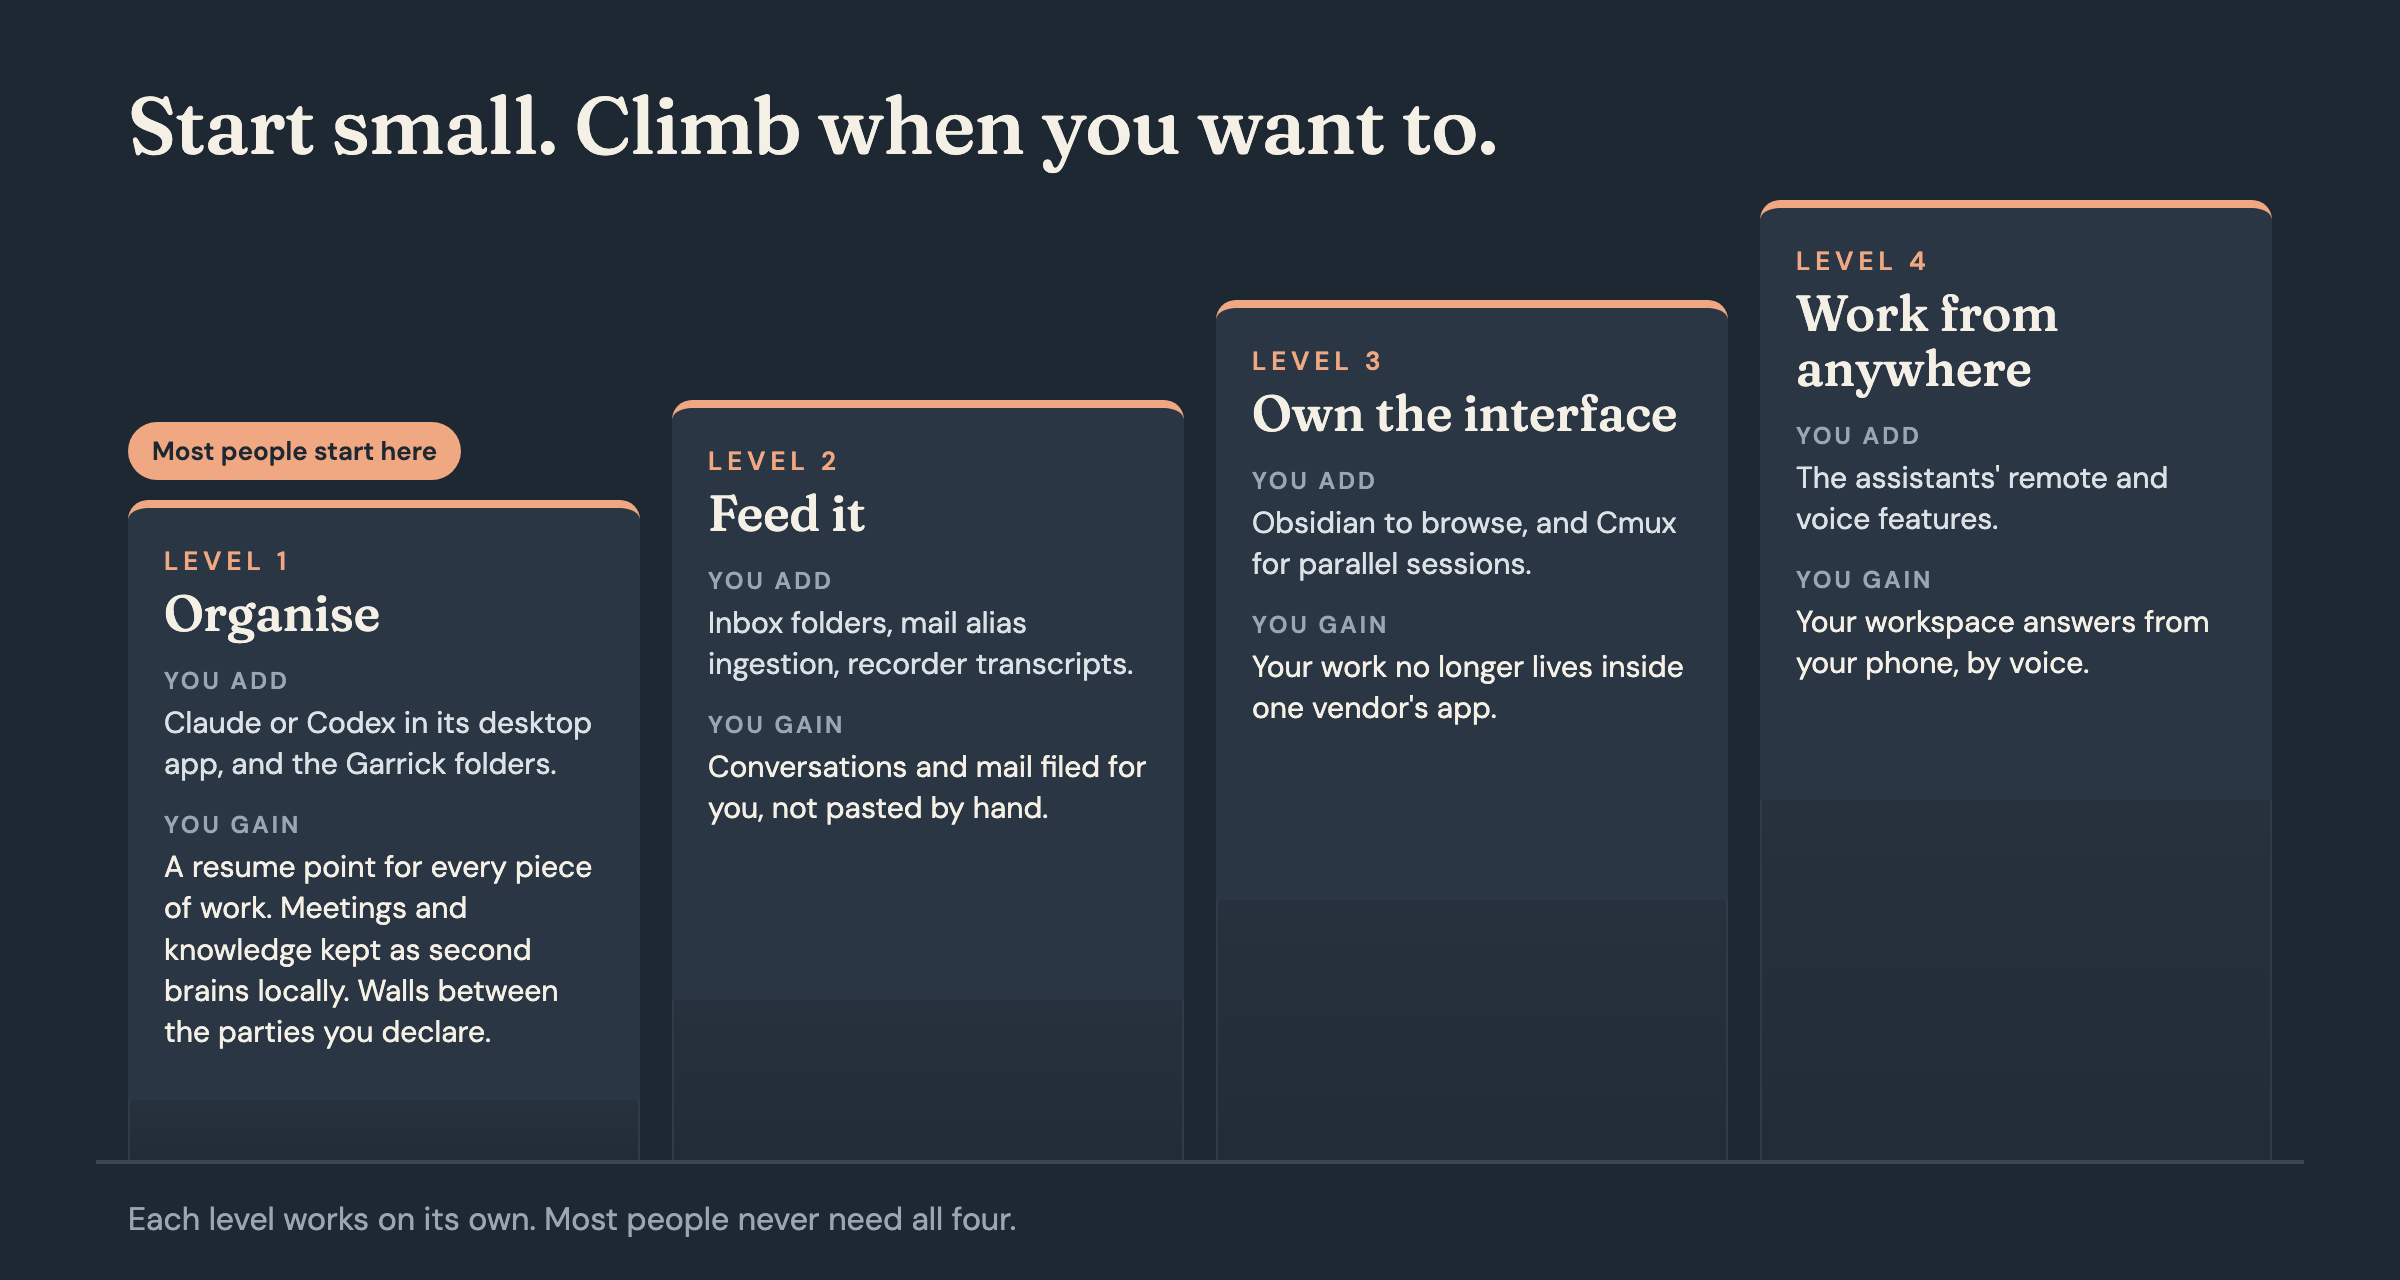
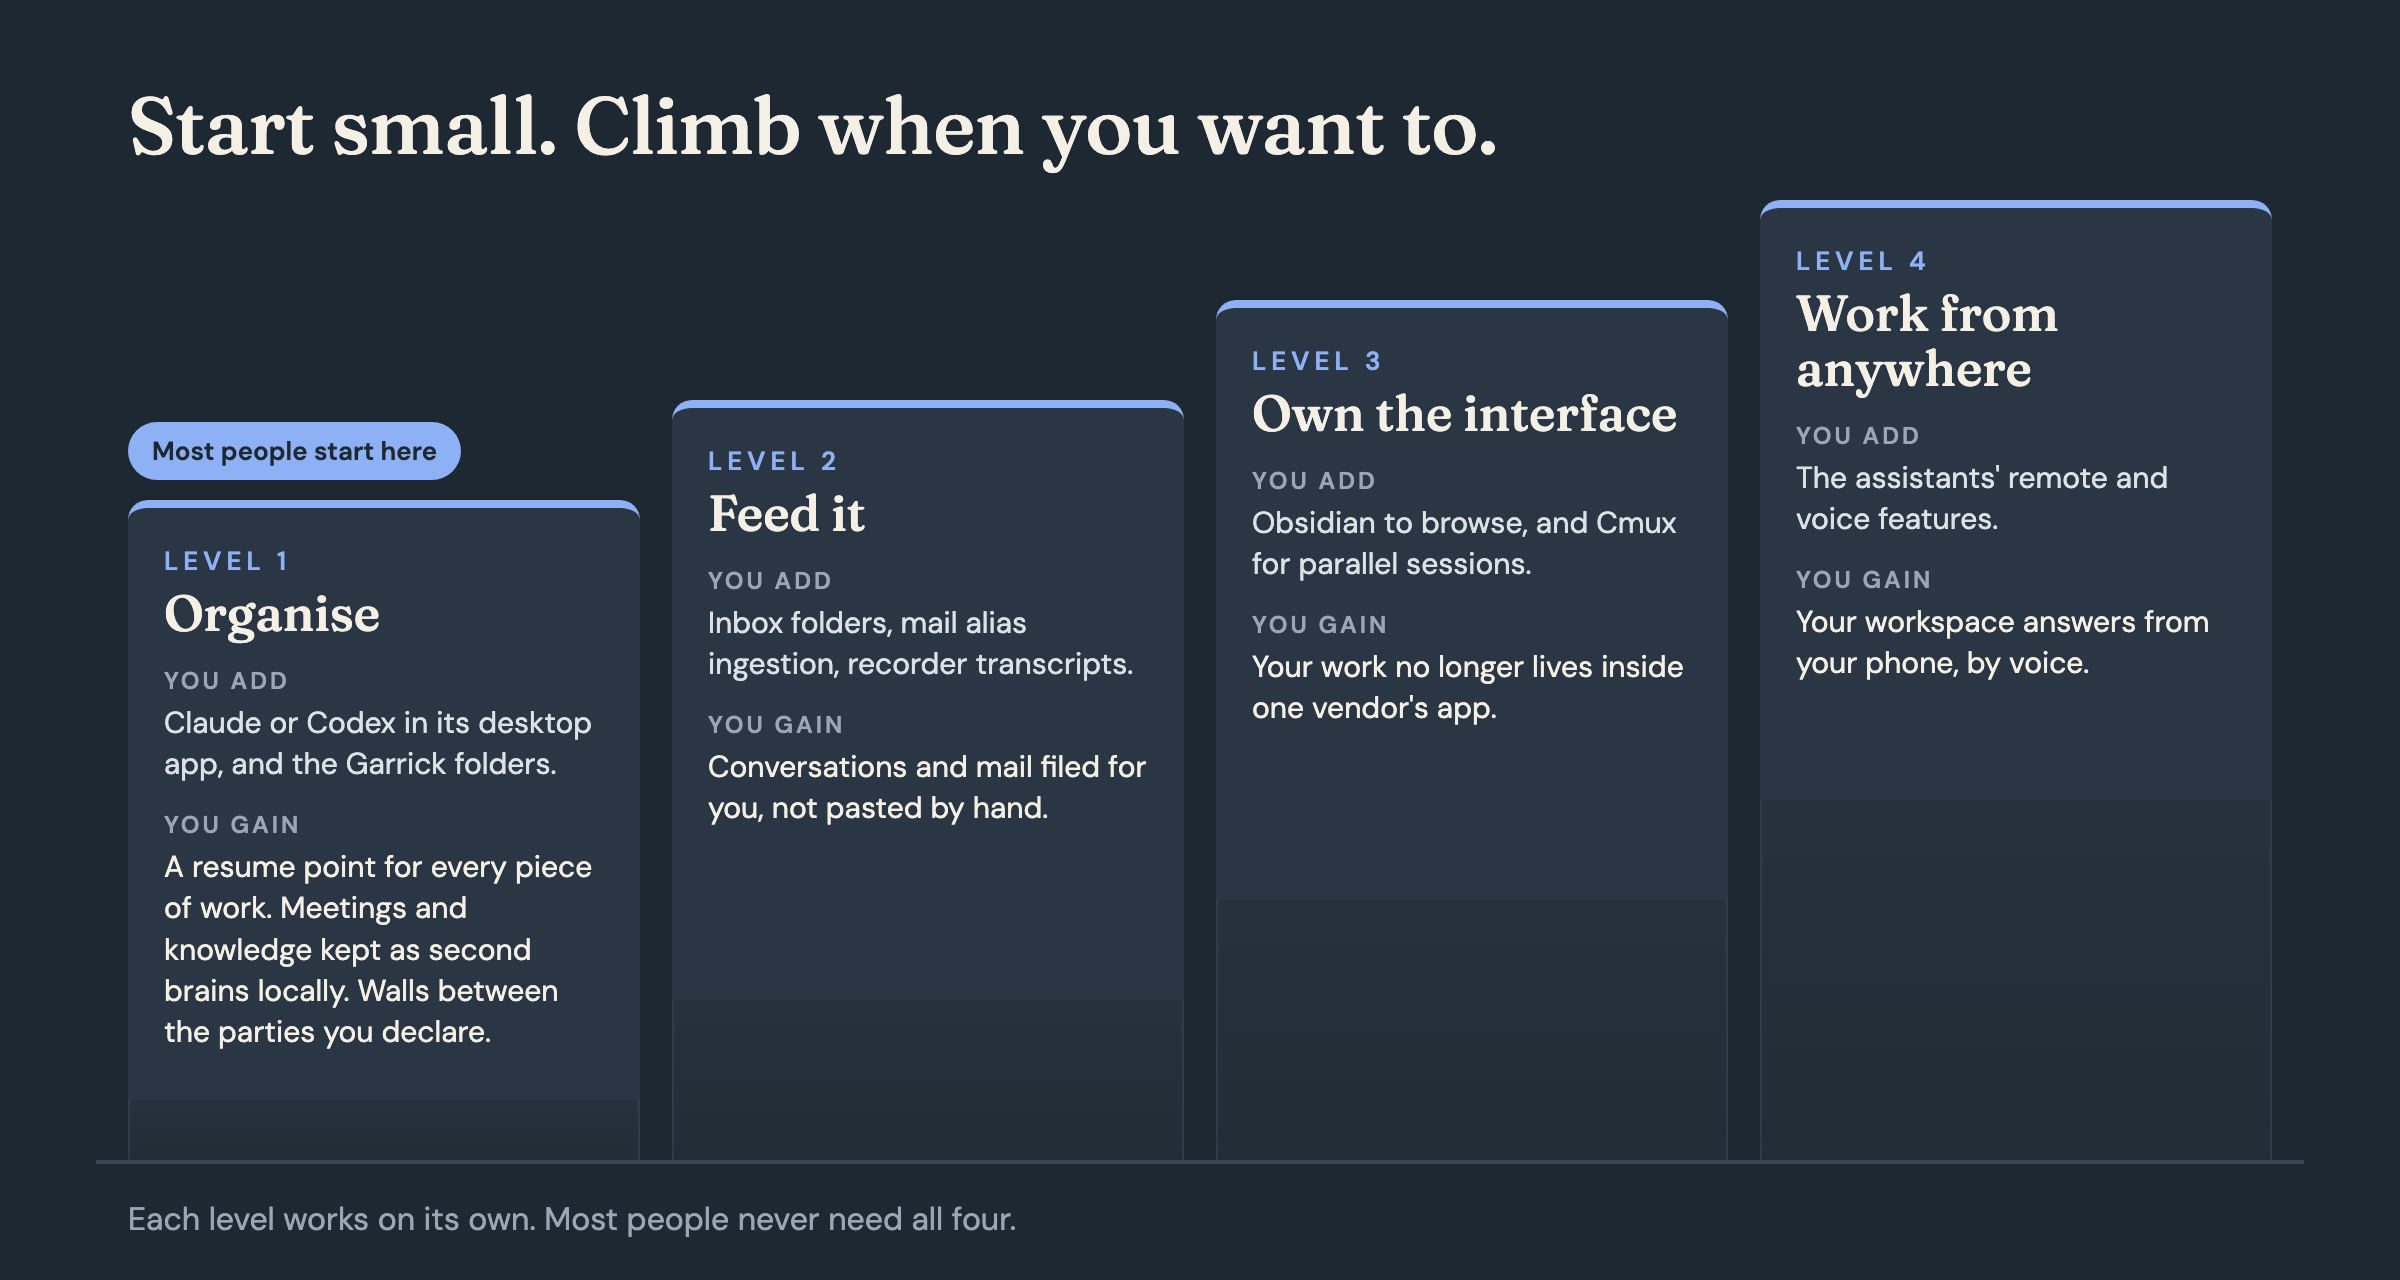
Adoption ladder: accents in the mark's blue
Same wording and layout; the level labels, the step edges and the
"Most people start here" badge move from peach to the light blue the
deck and the social card use on navy.

diff --git a/docs/assets/adoption-ladder.html b/docs/assets/adoption-ladder.html
@@ -7,14 +7,14 @@ h1{position:absolute;left:64px;top:38px;margin:0;font-family:'Fraunces',Georgia,
 .foot{position:absolute;left:64px;bottom:20px;margin:0;font-size:16px;color:#9AA6B2}
 .base{position:absolute;left:48px;right:48px;bottom:58px;height:2px;background:#3A4756}
 .step{position:absolute;width:256px;display:flex;flex-direction:column}
-.card{box-sizing:border-box;height:300px;padding:18px 18px 16px;background:#2A3643;border-top:4px solid #F0A882;border-radius:10px 10px 0 0}
+.card{box-sizing:border-box;height:300px;padding:18px 18px 16px;background:#2A3643;border-top:4px solid #8EB1F5;border-radius:10px 10px 0 0}
 .riser{background:linear-gradient(#26313D,#222C37);border-left:1px solid #2F3B48;border-right:1px solid #2F3B48}
-.lvl{margin:0;font-size:13px;font-weight:600;letter-spacing:2.5px;text-transform:uppercase;color:#F0A882}
+.lvl{margin:0;font-size:13px;font-weight:600;letter-spacing:2.5px;text-transform:uppercase;color:#8EB1F5}
 h2{margin:4px 0 12px;font-family:'Fraunces',Georgia,serif;font-weight:500;font-size:25px;line-height:1.1}
 .k{margin:0 0 3px;font-size:12px;font-weight:600;letter-spacing:1.5px;text-transform:uppercase;color:#9AA6B2}
 .v{margin:0 0 12px;font-size:15px;line-height:1.38;color:#DCE1E6}
 .gain{color:#F5F0E6}
-.badge{align-self:flex-start;margin-bottom:10px;font-size:13px;font-weight:600;padding:6px 12px;border-radius:999px;background:#F0A882;color:#1E2833}
+.badge{align-self:flex-start;margin-bottom:10px;font-size:13px;font-weight:600;padding:6px 12px;border-radius:999px;background:#8EB1F5;color:#1E2833}
 </style></head><body>
 <h1>Start small. Climb when you want to.</h1>
 <div class="base"></div>
